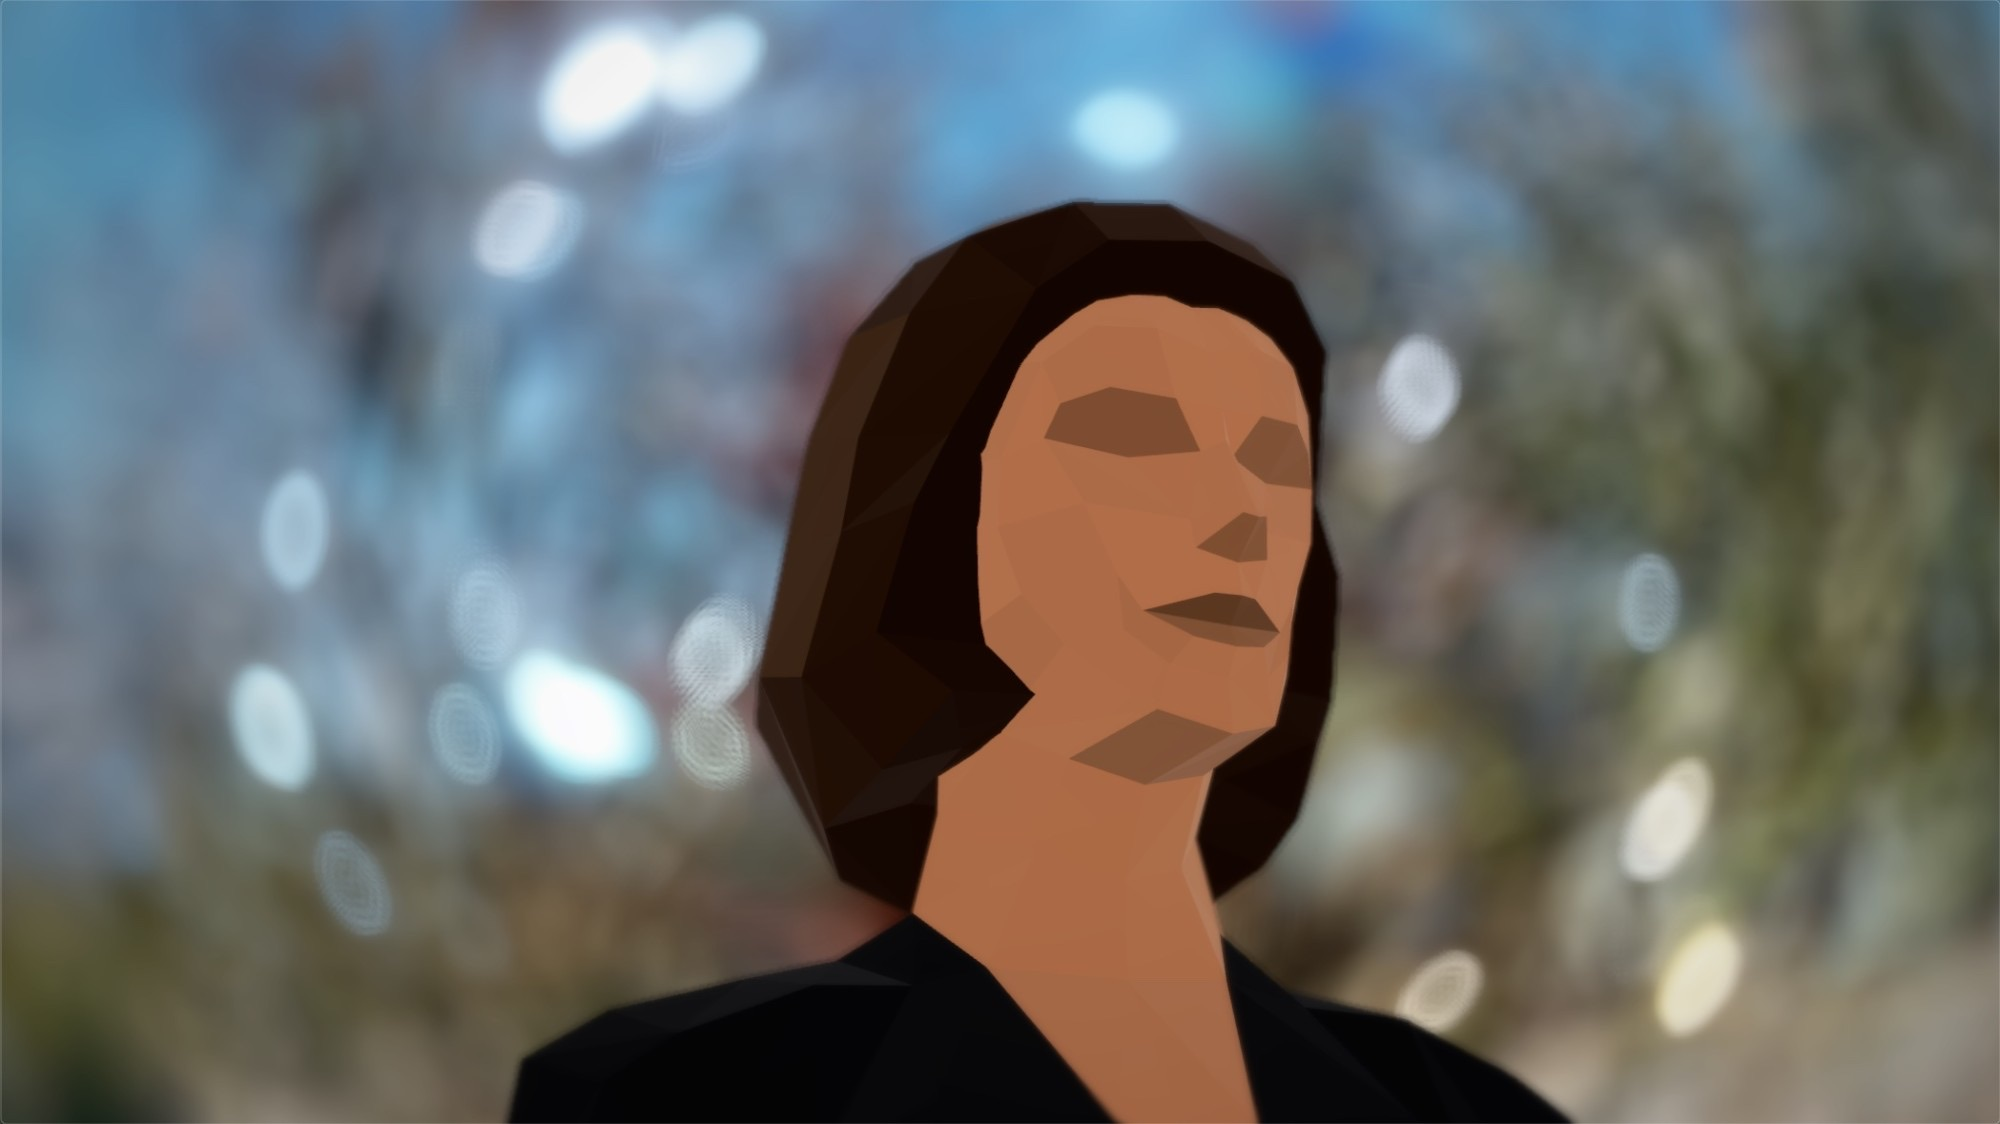
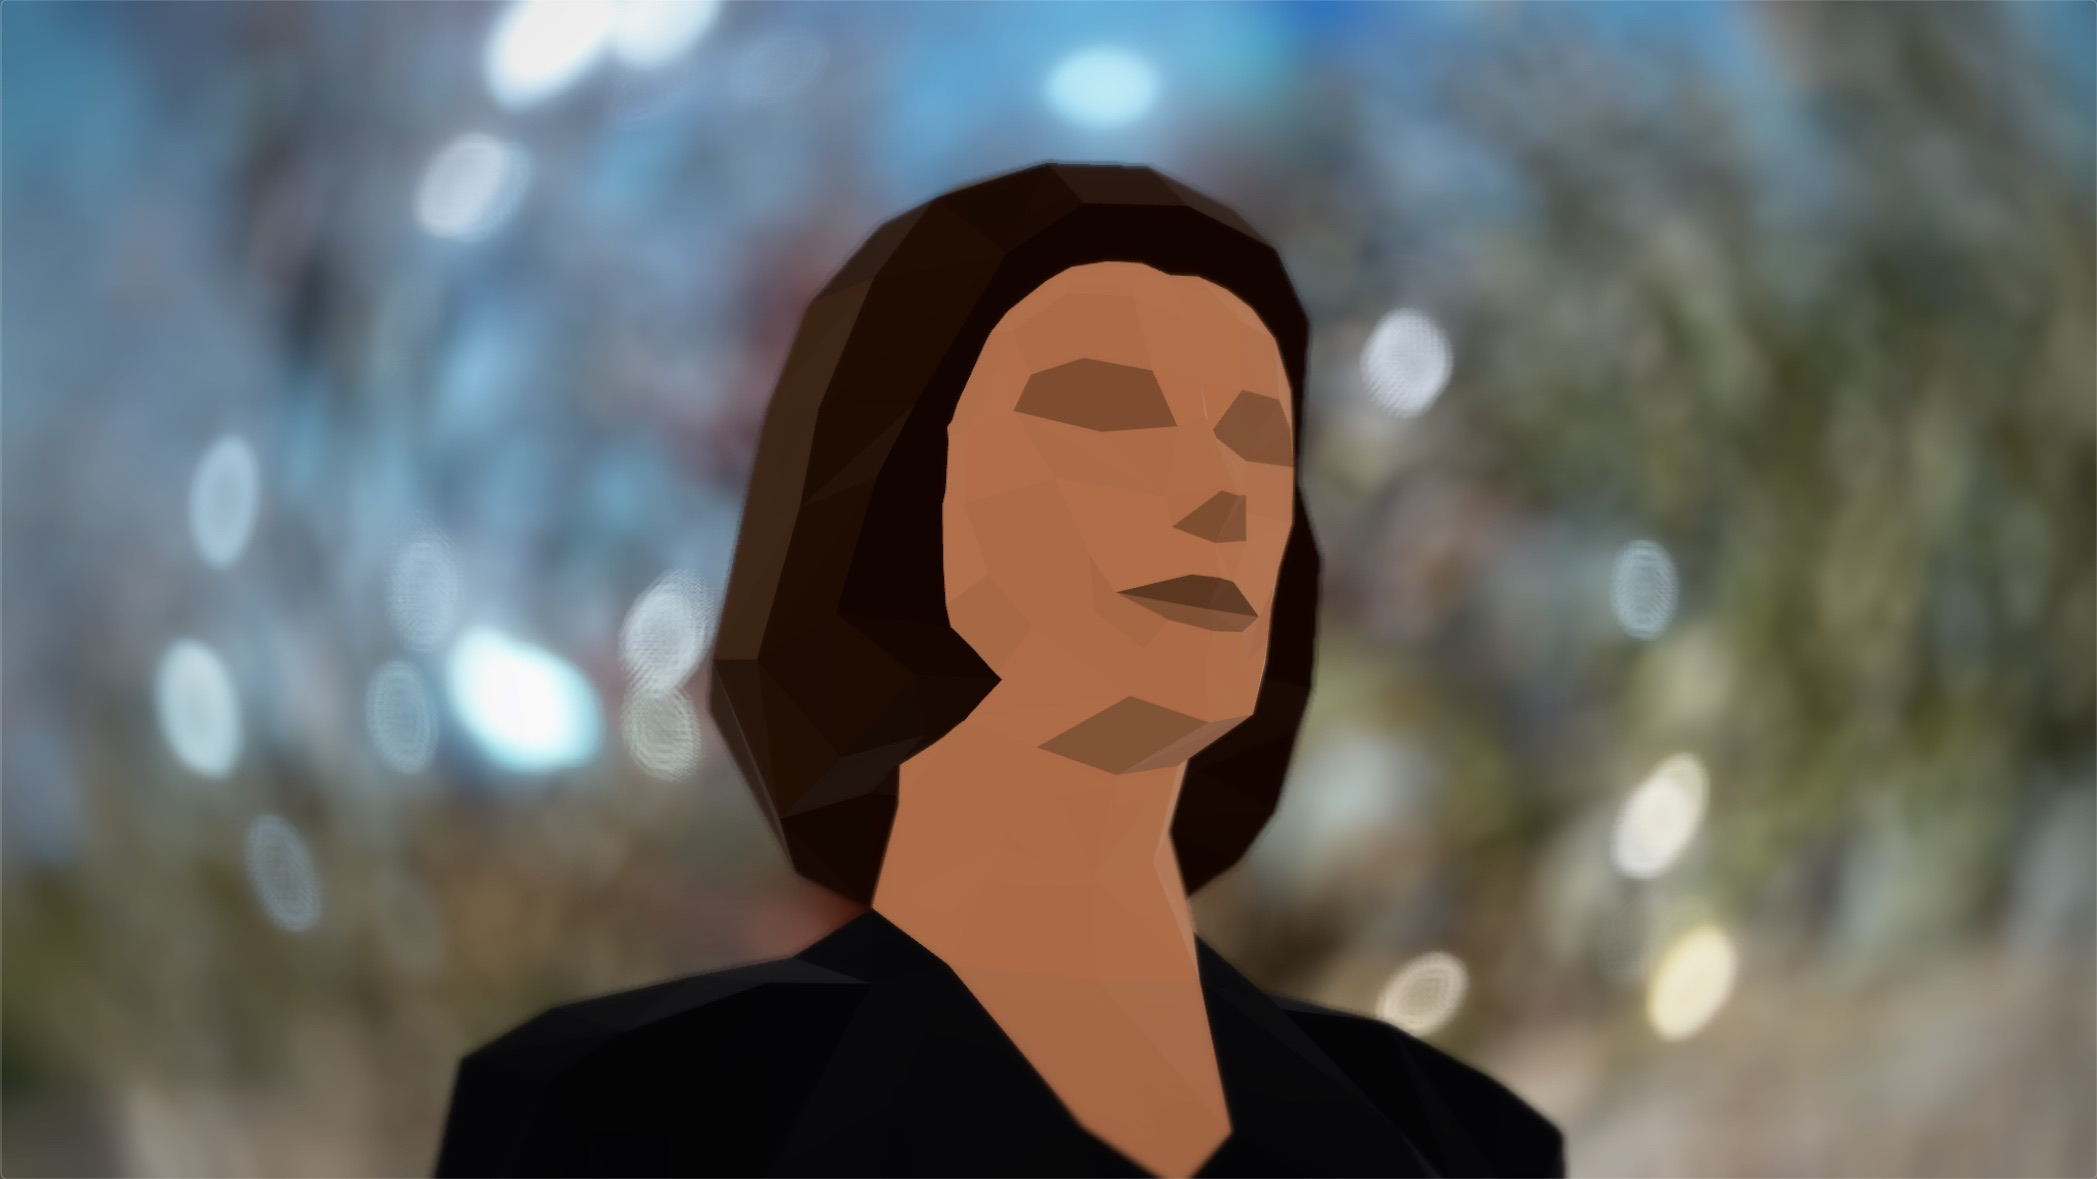
Lens scene: better bokeh still

diff --git a/index.html b/index.html
@@ -285,7 +285,7 @@
   .choice .go { margin-left: auto; width: calc(12 * var(--p)); height: calc(12 * var(--p)); color: rgba(235,235,245,0.3); }
 
   /* sun: sky + SunTimeBar */
-  .shot-lens { transform: translateX(-15%) scale(1.3); transform-origin: 50% 35%; }
+  .shot-lens { transform: translateX(-10%) scale(1.2); transform-origin: 50% 35%; }
   .sun-svg { position: absolute; inset: 0; width: 100%; height: 100%; }
   .sunbar { position: absolute; left: 50%; bottom: calc(52 * var(--p)); transform: translateX(-50%); z-index: 9; height: calc(44 * var(--p)); border-radius: 100px; display: flex; align-items: center; gap: calc(12 * var(--p)); padding: 0 calc(12 * var(--p)); background: rgba(20,22,30,0.62); border: 1px solid rgba(255,255,255,0.12); -webkit-backdrop-filter: blur(20px); backdrop-filter: blur(20px); white-space: nowrap; }
   .sunbar .chip { display: flex; align-items: center; gap: calc(4 * var(--p)); height: calc(26 * var(--p)); padding: 0 calc(8 * var(--p)); border-radius: 100px; background: rgba(255,255,255,0.06); font-size: calc(11 * var(--p)); font-weight: 500; color: #fff; }
@@ -464,7 +464,7 @@
 
       <!-- LENS: depth of field, focused on her -->
       <div class="scene" data-scene="lens">
-        <img class="bg shot-lens" src="shot-bokeh.jpg" alt="A mannequin in focus against a bokeh background, rendered by CineStager's depth of field">
+        <img class="bg shot-lens" src="shot-bokeh.jpg?v=2" alt="A mannequin in focus against a bokeh background, rendered by CineStager's depth of field">
         <div class="sensor"></div>
         <div class="menu lens-menu" data-anchor="tab-lens">
           <div class="seg"><span class="on">Depth of Field</span><span>Character</span></div>
